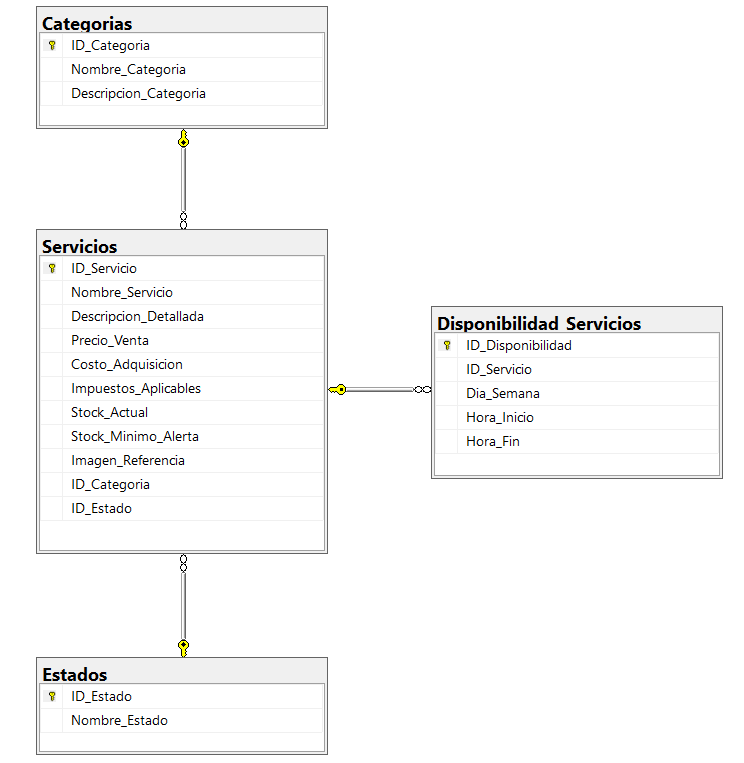
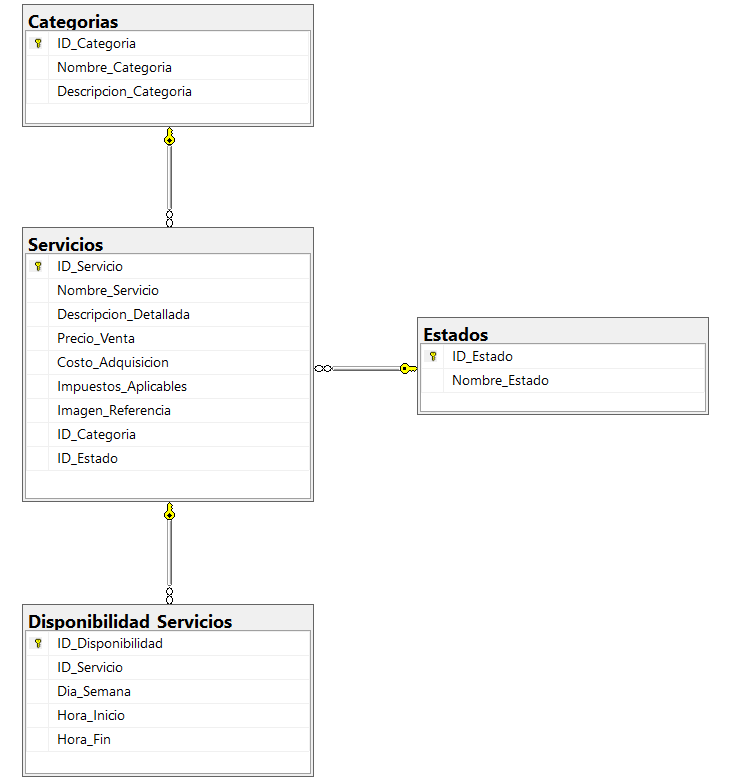
correciones 1

Changed region(s): [[0.0309, 0.0, 0.9583, 0.9948], [0.2164, 0.844, 0.2782, 0.8742]]

diff --git a/DBSubsistemas/BDServicios.html b/DBSubsistemas/BDServicios.html
@@ -80,8 +80,6 @@
                 Precio_Venta DECIMAL(10,2) NOT NULL,
                 Costo_Adquisicion DECIMAL(10,2) NULL,
                 Impuestos_Aplicables DECIMAL(5,2) NULL, -- porcentaje o tasa
-                Stock_Actual INT NULL,
-                Stock_Minimo_Alerta INT NULL,
                 Imagen_Referencia NVARCHAR(255) NULL,
 
                 -- Llaves foráneas
@@ -111,34 +109,75 @@
             <h3>Registro de Categorias</h3>
             <pre><code>
                 INSERT INTO Categorias (Nombre_Categoria, Descripcion_Categoria) VALUES
-                ('Masajes Terapéuticos', 'Servicios de masajes enfocados en aliviar dolencias y estrés.'),
-                ('Tratamientos Faciales', 'Cuidado y rejuvenecimiento de la piel del rostro.'),
-                ('Estilismo y Peluquería', 'Cortes de cabello, peinados y tratamientos capilares.'),
-                ('Rituales de Spa', 'Paquetes completos de relajación que combinan varios servicios.'),
-                ('Gastronomía', 'Servicios de alimentos y bebidas del restaurante del hotel.');
+                ('Hospedaje', 'Tipos de habitaciones y suites para alojamiento de huéspedes.'),
+                ('Alimentos y Bebidas', 'Servicios relacionados con restaurantes, bares y servicio a la habitación.'),
+                ('Eventos y Banquetes', 'Renta de salones y paquetes para eventos sociales o corporativos.'),
+                ('Bienestar y Recreación', 'Servicios de spa, gimnasio, alberca y actividades recreativas.'),
+                ('Servicios Adicionales', 'Servicios complementarios como lavandería, transportación y tours.');
                 GO
             </code></pre>
 
             <h3>Registro de Estados</h3>
             <pre><code>
                 INSERT INTO Estados (Nombre_Estado) VALUES
-                ('Activo'),
-                ('Inactivo'),
-                ('Próximamente'),
+                ('Disponible'),
+                ('No Disponible'),
                 ('En Mantenimiento'),
-                ('Exclusivo para Miembros');GO
+                ('Bajo Petición');
+                GO
             </code></pre>
 
             <h3>Registro de Servicios</h3>
             <pre><code>
-                INSERT INTO Servicios 
-                (Nombre_Servicio, Descripcion_Detallada, Precio_Venta, Costo_Adquisicion, Impuestos_Aplicables, Stock_Actual, Stock_Minimo_Alerta, Imagen_Referencia, ID_Categoria, ID_Estado) VALUES
-                ('Masaje Relajante Sueco', '60 minutos de masaje suave para una relajación profunda.', 950.00, 80.00, 0.16, 50, 5, 'url/masaje_sueco.jpg', 1, 1), -- Categoria: Masajes, Estado: Activo
-                ('Limpieza Facial Profunda', 'Tratamiento de 75 minutos que incluye extracción, exfoliación e hidratación.', 1100.00, 120.00, 0.16, 50, 5, 'url/facial_profundo.jpg', 2, 1), -- Categoria: Faciales, Estado: Activo
-                ('Corte y Estilizado para Dama', 'Incluye lavado, corte con estilista y secado profesional.', 800.00, 40.00, 0.16, 100, 0, 'url/corte_dama.jpg', 3, 1), -- Categoria: Peluquería, Estado: Activo
-                ('Ritual "Renovación Total"', 'Experiencia de 3 horas que incluye exfoliación, envoltura de algas y masaje holístico.', 3200.00, 450.00, 0.16, 20, 2, 'url/ritual_renovacion.jpg', 4, 5), -- Categoria: Rituales, Estado: Exclusivo Miembros
-                ('Cena Degustación del Chef', 'Menú de 5 tiempos con maridaje de vinos.', 1800.00, 600.00, 0.16, 30, 0, 'url/cena_chef.jpg', 5, 3), -- Categoria: Gastronomía, Estado: Próximamente
-                ('Masaje Descontracturante', 'Masaje intenso de 60 minutos para liberar nudos musculares.', 1050.00, 90.00, 0.16, 0, 5, 'url/masaje_descon.jpg', 1, 2); -- Categoria: Masajes, Estado: Inactivo GO
+                INSERT INTO Servicios (Nombre_Servicio, Descripcion_Detallada, Precio_Venta, Costo_Adquisicion, Impuestos_Aplicables, Imagen_Referencia, ID_Categoria, ID_Estado) VALUES
+                ('Habitación Estándar King', 'Confortable habitación con una cama King Size, TV de 42", Wi-Fi y baño privado. Vista al jardín.', 1850.00, 450.00, 18.00, 'img/habitacion_king.jpg', 1, 1),
+                ('Suite de Lujo con Jacuzzi', 'Amplia suite con cama King Size, sala de estar, jacuzzi privado y balcón con vista al mar.', 4200.50, 980.00, 18.00, 'img/suite_jacuzzi.jpg', 1, 1),
+                ('Desayuno Buffet "El Amanecer"', 'Buffet completo con estación de omelets, fruta fresca, panadería artesanal y platillos regionales.', 350.00, 120.00, 16.00, 'img/desayuno_buffet.jpg', 2, 1),
+                ('Cena a la Carta en Restaurante "La Cava"', 'Experiencia culinaria gourmet con menú de autor y maridaje de vinos.', 950.00, 350.00, 16.00, 'img/cena_lacava.jpg', 2, 1),
+                ('Renta de Salón "Gran Emperador" (8 horas)', 'Salón con capacidad para 200 personas, incluye mobiliario, proyector y sistema de audio.', 15000.00, 4500.00, 16.00, 'img/salon_eventos.jpg', 3, 4),
+                ('Masaje Relajante "Serenidad"', 'Sesión de masaje de 60 minutos con aceites esenciales para liberar tensión y estrés.', 1100.00, 400.00, 16.00, 'img/masaje_spa.jpg', 4, 1),
+                ('Acceso a Gimnasio 24h', 'Acceso ilimitado a nuestras instalaciones de gimnasio equipadas con maquinaria de última generación.', 0.00, 50.00, 0.00, 'img/gimnasio.jpg', 4, 1),
+                ('Servicio de Lavandería (por prenda)', 'Lavado y planchado de prendas con entrega en 24 horas.', 85.00, 30.00, 16.00, 'img/lavanderia.jpg', 5, 1),
+                ('Alberca Principal', 'Acceso a la alberca principal y área de camastros. Exclusivo para huéspedes.', 0.00, 100.00, 0.00, 'img/alberca.jpg', 4, 3); -- Ejemplo de un servicio en mantenimiento
+                GO
+            </code></pre>
+
+            </code></pre>
+            <h3>Registro Disponibilidad Servicios</h3>
+            <pre><code>
+                INSERT INTO Disponibilidad_Servicios (ID_Servicio, Dia_Semana, Hora_Inicio, Hora_Fin) VALUES
+                -- Disponibilidad del Desayuno Buffet (Servicio ID: 3)
+                (3, 'Lunes', '07:00:00', '11:30:00'),
+                (3, 'Martes', '07:00:00', '11:30:00'),
+                (3, 'Miércoles', '07:00:00', '11:30:00'),
+                (3, 'Jueves', '07:00:00', '11:30:00'),
+                (3, 'Viernes', '07:00:00', '11:30:00'),
+                (3, 'Sábado', '07:00:00', '12:00:00'),
+                (3, 'Domingo', '07:00:00', '12:00:00'),
+                -- Disponibilidad del Restaurante "La Cava" (Servicio ID: 4)
+                (4, 'Lunes', '18:00:00', '23:00:00'),
+                (4, 'Martes', '18:00:00', '23:00:00'),
+                (4, 'Miércoles', '18:00:00', '23:00:00'),
+                (4, 'Jueves', '18:00:00', '23:00:00'),
+                (4, 'Viernes', '18:00:00', '23:59:00'),
+                (4, 'Sábado', '18:00:00', '23:59:00'),
+                -- Disponibilidad del Spa para Masajes (Servicio ID: 6)
+                (6, 'Lunes', '10:00:00', '19:00:00'),
+                (6, 'Martes', '10:00:00', '19:00:00'),
+                (6, 'Miércoles', '10:00:00', '19:00:00'),
+                (6, 'Jueves', '10:00:00', '19:00:00'),
+                (6, 'Viernes', '10:00:00', '20:00:00'),
+                (6, 'Sábado', '10:00:00', '20:00:00'),
+                (6, 'Domingo', '11:00:00', '17:00:00'),
+                -- Disponibilidad del Gimnasio (Servicio ID: 7) - Es 24h, se puede representar así
+                (7, 'Lunes', '00:00:00', '23:59:59'),
+                (7, 'Martes', '00:00:00', '23:59:59'),
+                (7, 'Miércoles', '00:00:00', '23:59:59'),
+                (7, 'Jueves', '00:00:00', '23:59:59'),
+                (7, 'Viernes', '00:00:00', '23:59:59'),
+                (7, 'Sábado', '00:00:00', '23:59:59'),
+                (7, 'Domingo', '00:00:00', '23:59:59');
+                GO
             </code></pre>
         </div>
     </div>
